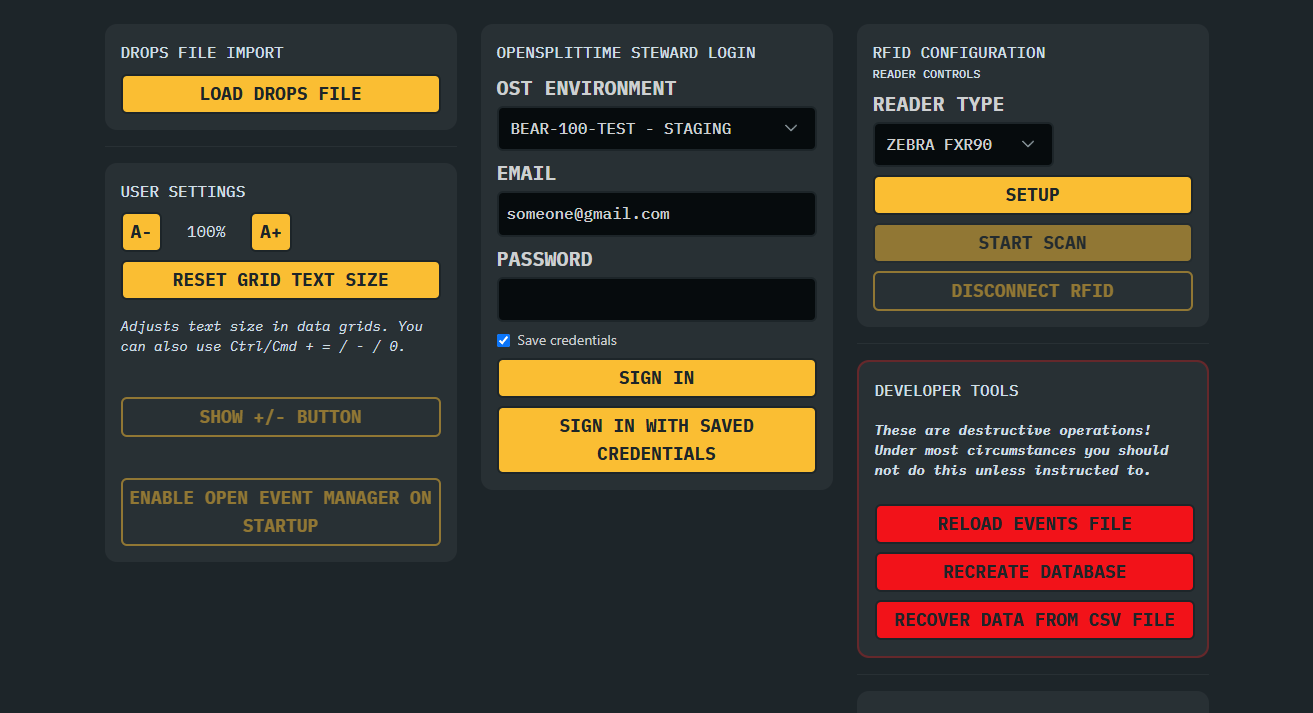
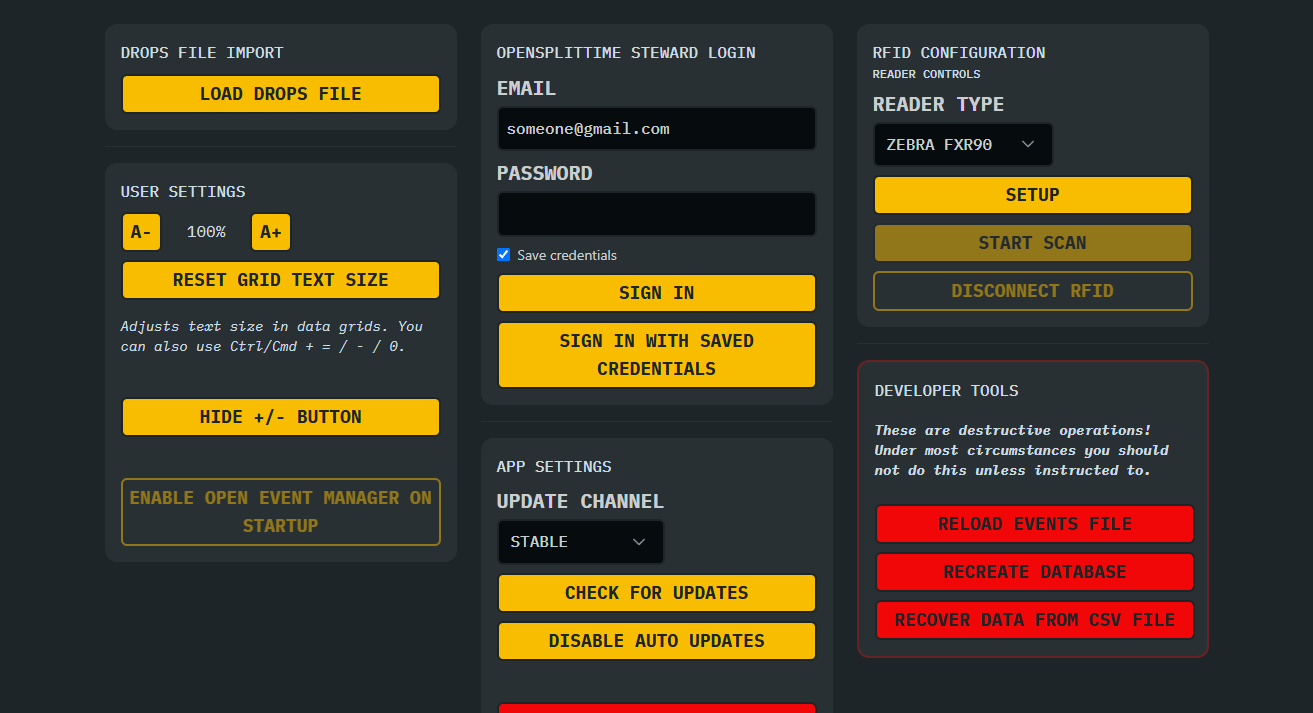
docs: document update channel and refresh settings screenshot

diff --git a/README.md b/README.md
@@ -304,7 +304,7 @@ While signed in, OpenSplitTime status takes precedence over CSV export status in
 
 ### User Settings
 
-- **Grid Text Size**
+- **UI Scaling**
   Use the A-/A+ controls to adjust the size of text in data grids, buttons, and text inputs. The
   setting is saved and restored when Ultra-Tracker is restarted. The keyboard shortcuts are
   Ctrl/Cmd + `=` to increase, Ctrl/Cmd + `-` to decrease, and Ctrl/Cmd + `0` to reset.

diff --git a/src/renderer/src/assets/documents/get-started.md b/src/renderer/src/assets/documents/get-started.md
@@ -360,7 +360,7 @@ The settings overview also brings together drops imports, OpenSplitTime configur
 
 ### User Settings
 
-- **Grid Text Size**
+- **UI Scaling**
   Use the A-/A+ controls to adjust the size of text in data grids, buttons, and text inputs. The
   setting is saved and restored when Ultra-Tracker is restarted. The keyboard shortcuts are
   Ctrl/Cmd + `=` to increase, Ctrl/Cmd + `-` to decrease, and Ctrl/Cmd + `0` to reset.
